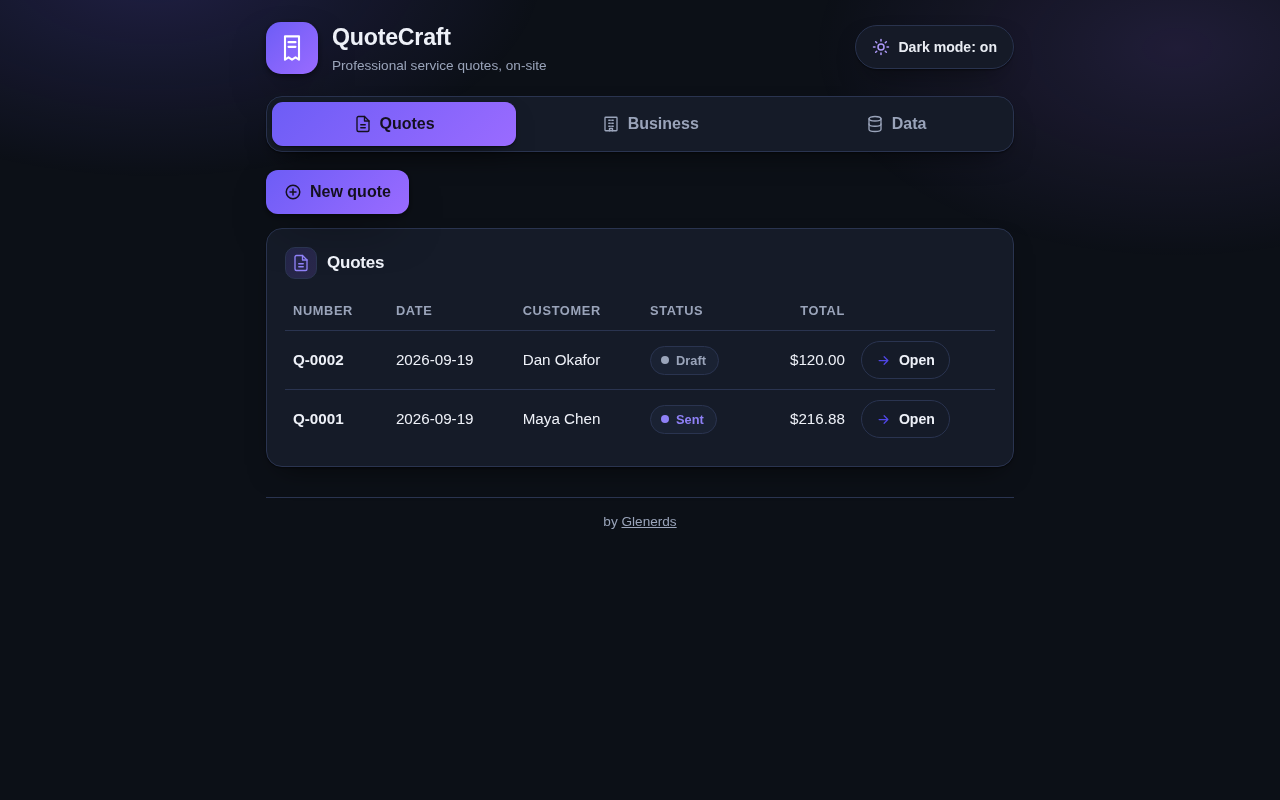
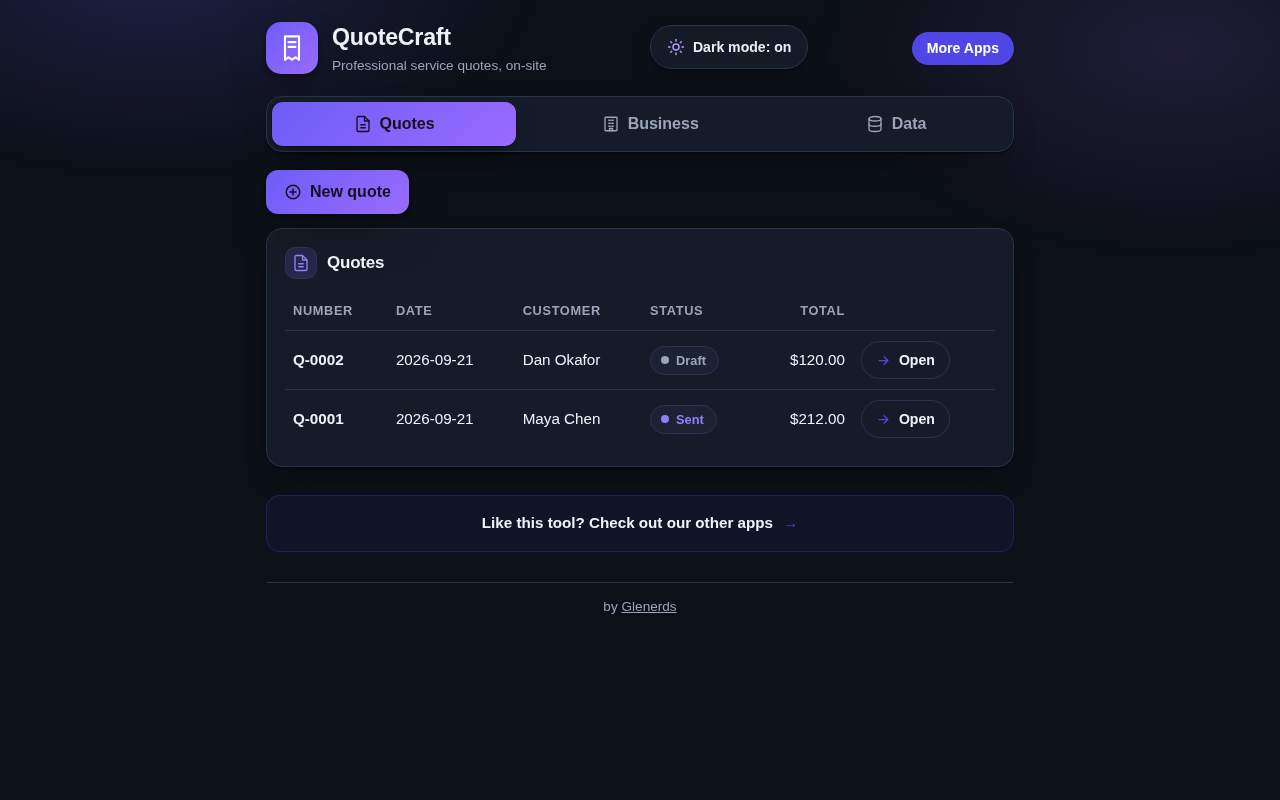
glenerds microsite transfer

diff --git a/staging/published/quotecraft/CHANGES.md b/staging/published/quotecraft/CHANGES.md
@@ -1,5 +1,8 @@
 # QuoteCraft — CHANGES.md
 
+## 2026-09-21 — gallery re-shot with post-rollout chrome
+- All 9 gallery images re-shot against the current live build. The old set predated the More Apps/CTA rollout (missing the "More Apps" button and promo banner) — Grok's batch-1 FAIL on the old covers was adjudicated: chrome staleness confirmed, sample-data objection rejected (populated covers are intentional per Glen's dense-cover standard). New set uses seeded sample data (Maya Chen / Sent / $212.00; Dan Okafor / Draft / $120.00). 7-mobile re-shot scrolled-right so TOTAL and Open buttons are fully visible. No source changes; bundle ZIP untouched (gallery not included).
+
 ## 2026-09-21 — spotlight reset on quote switch (Gemini bench finding)
 - `openQuote` now clears `vizDonutSel`/`vizBarSel`, so a donut/bar spotlight from one quote never carries over cosmetically into the next opened quote. Bundle ZIP rebuilt (byte-match verified).
 
